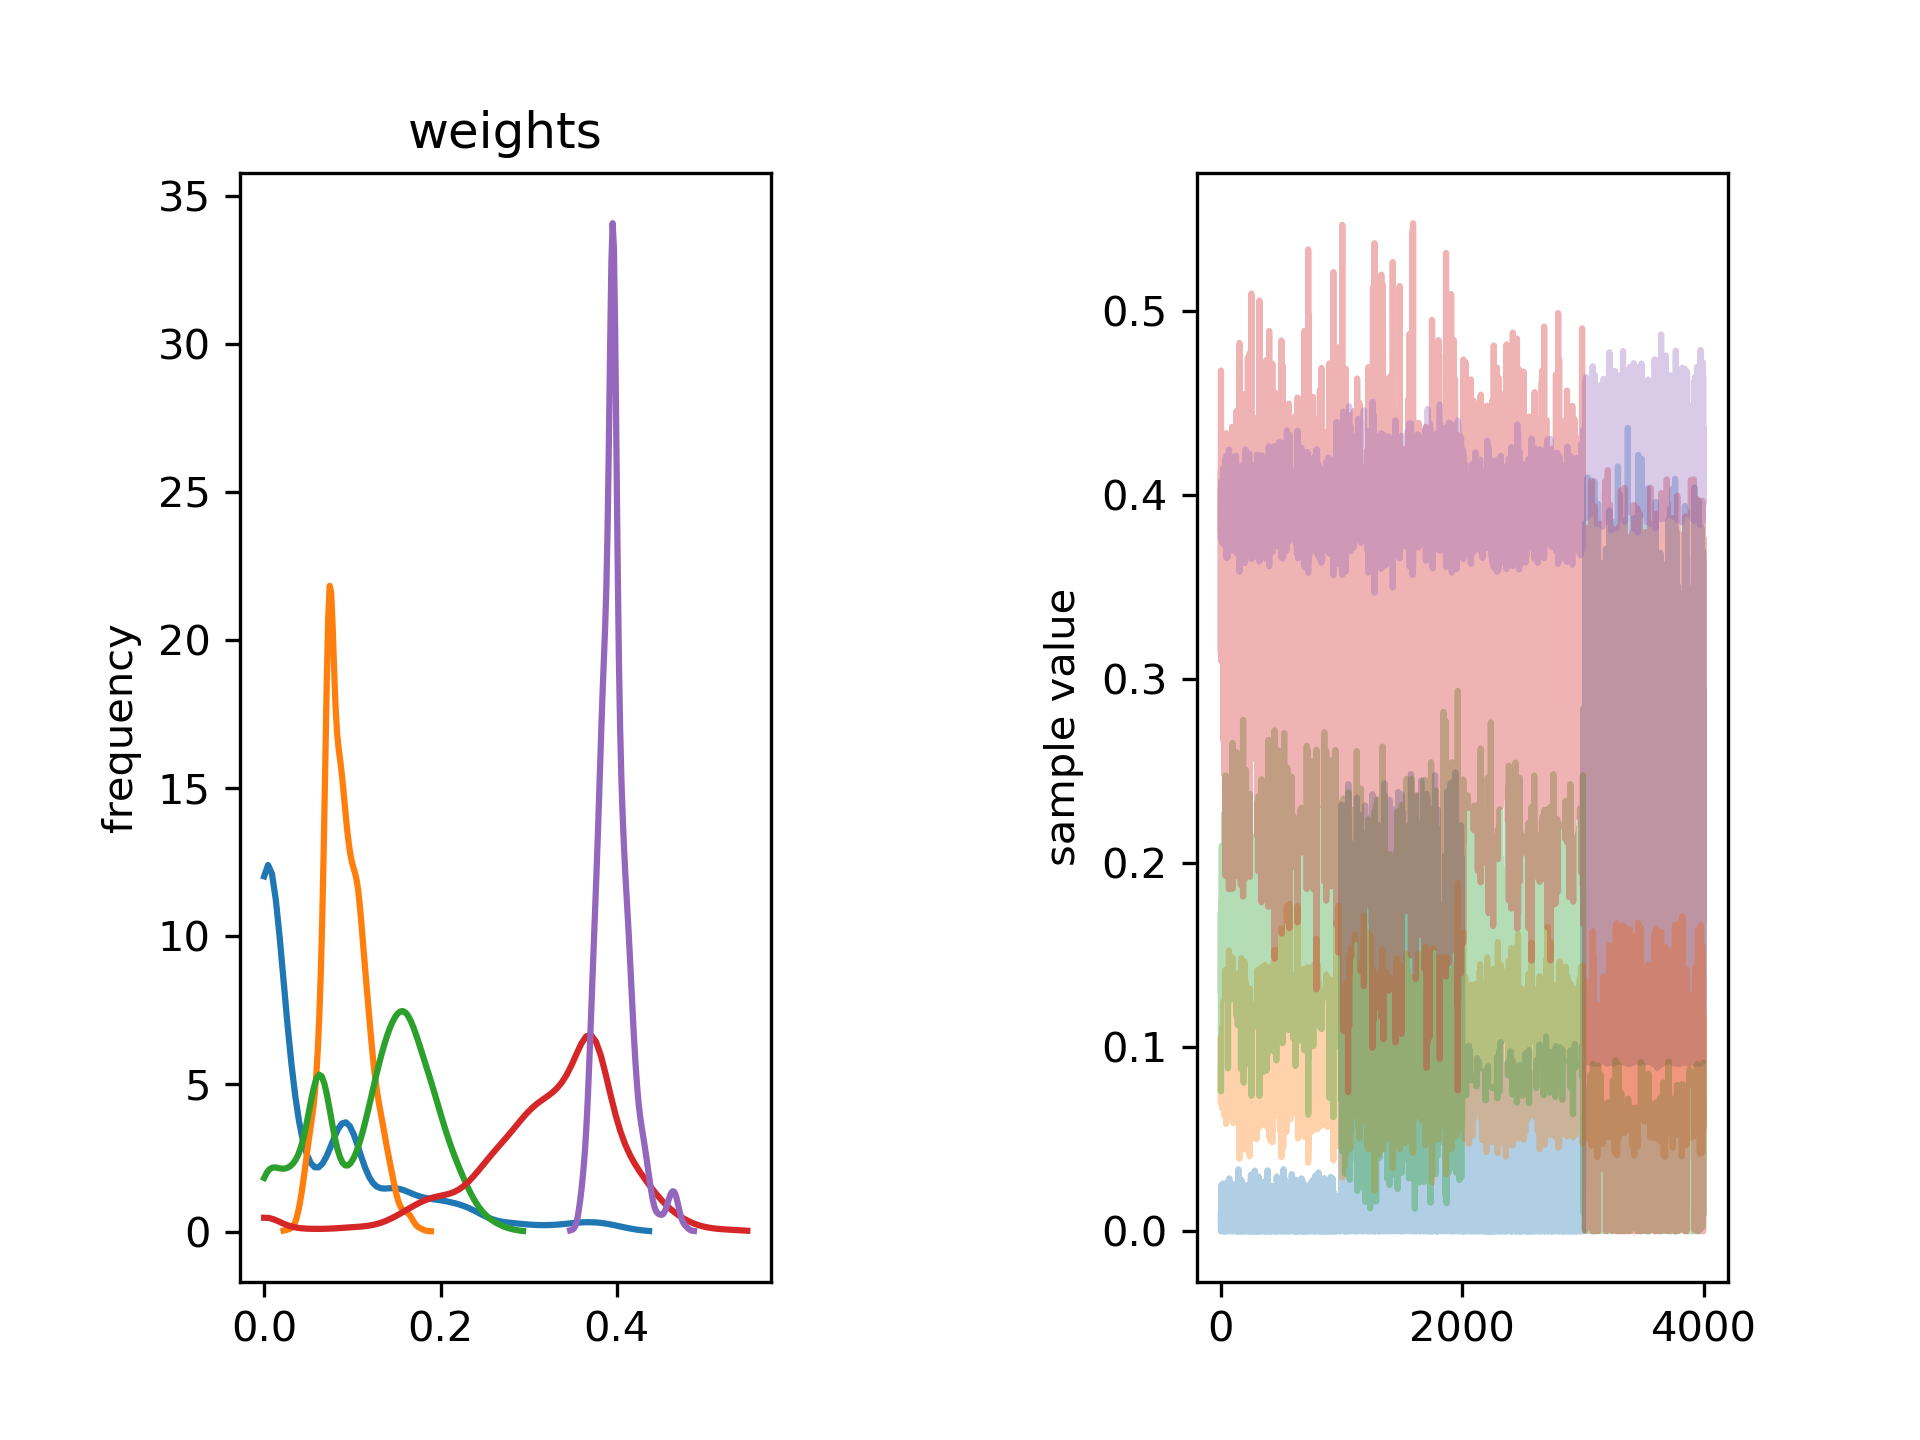
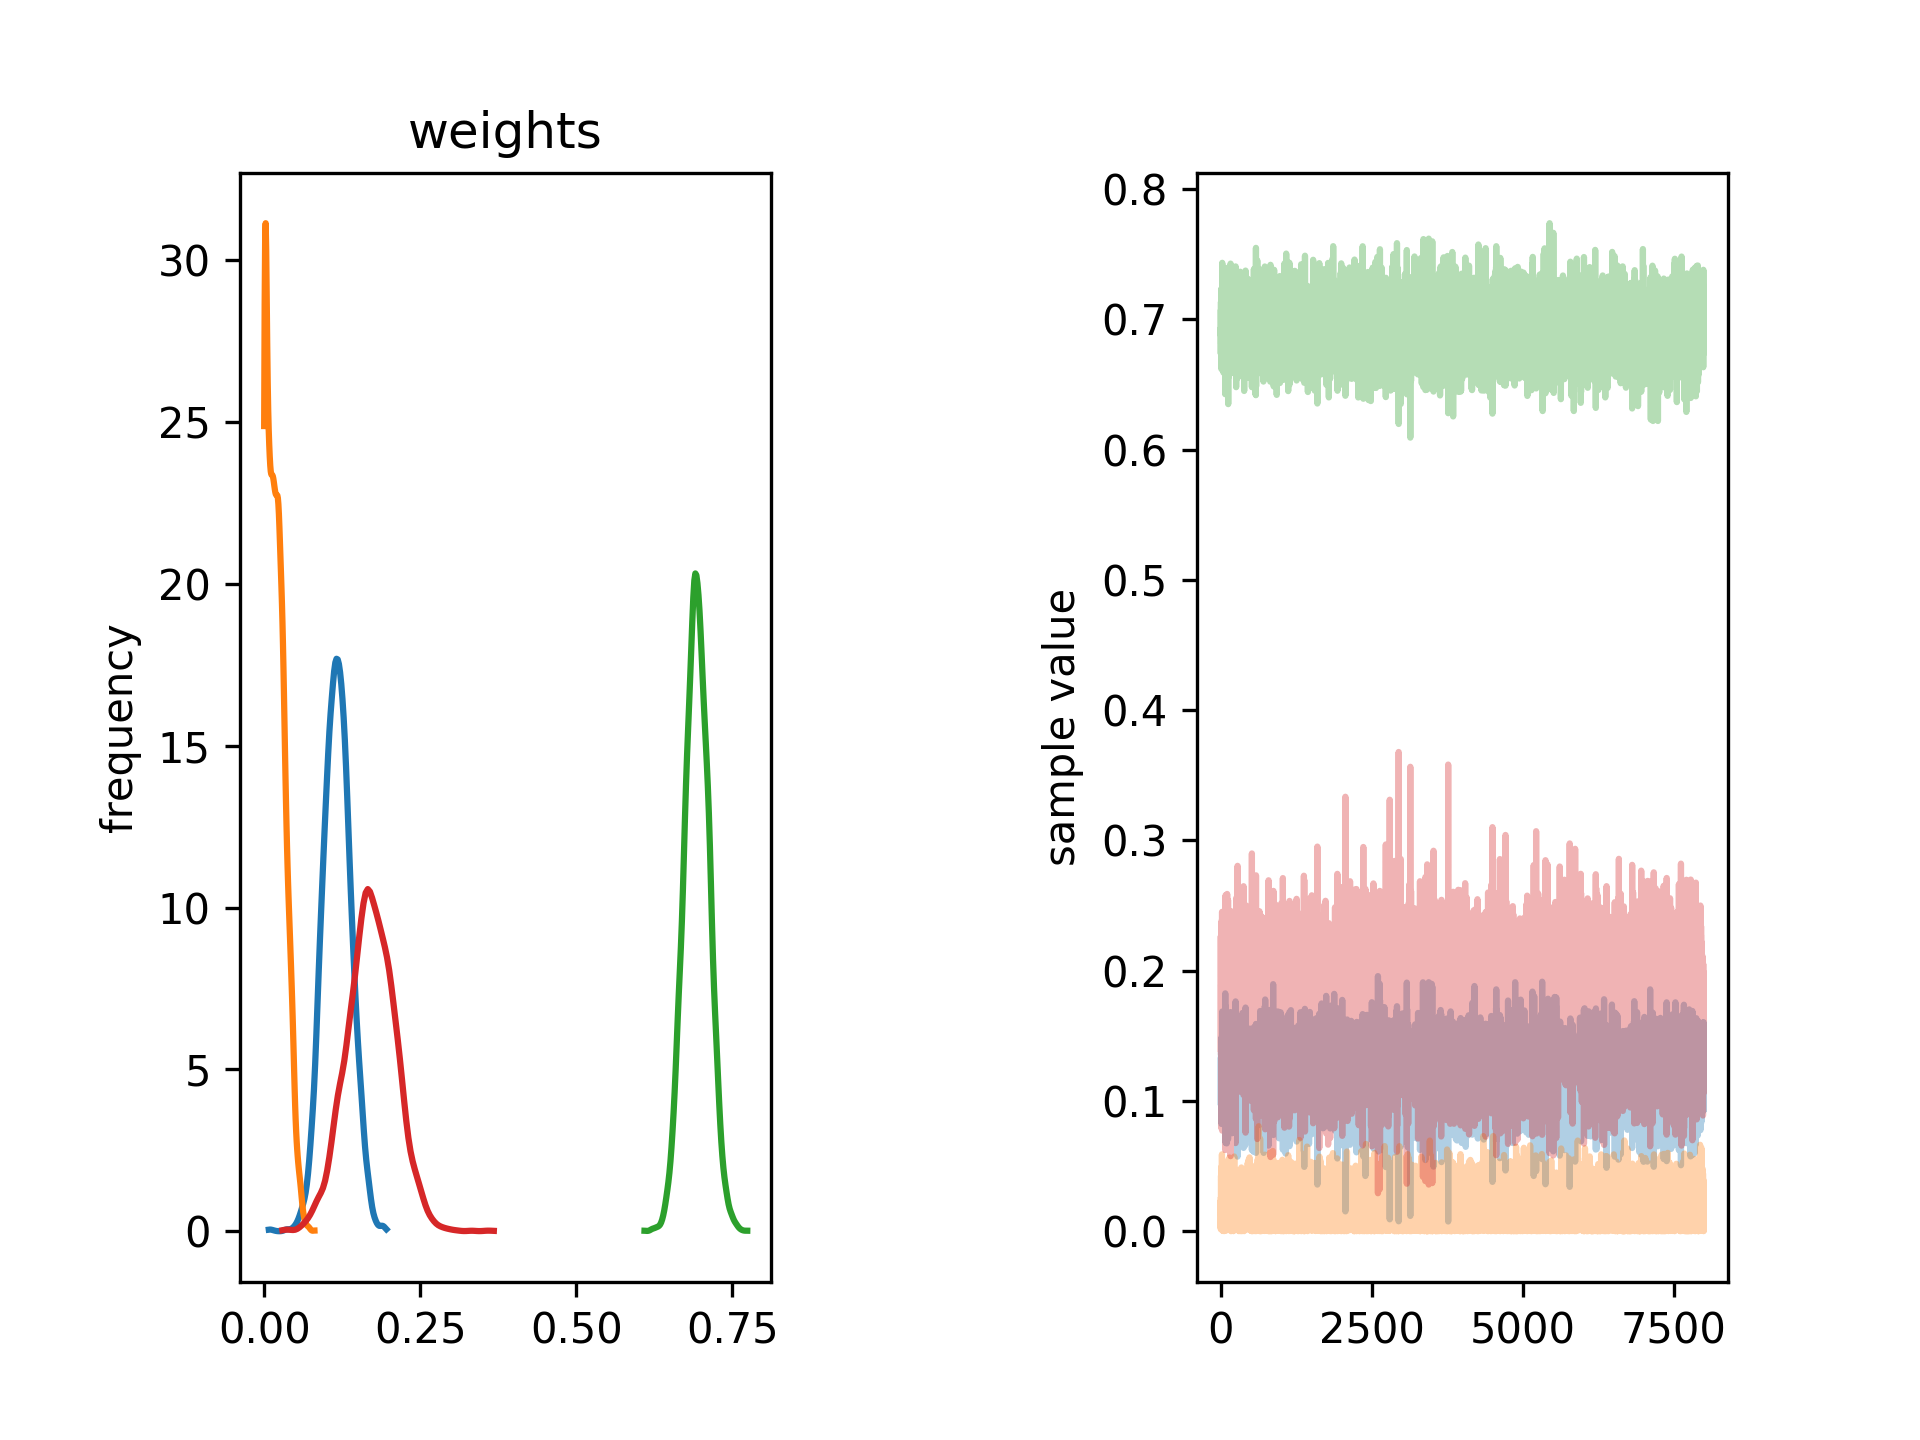
stan weights example provided

diff --git a/README.md b/README.md
@@ -35,40 +35,6 @@ If you see no errors but options menu pops up, you are good to go.
 
 ## Running examples
 
-### Simple run example
-1. The simple example for running complete Bayesian approach with all necessary input files can be found in data folder
-```
-cd data
-python ../fullBayesian.py -p weights.txt -s SimulatedIntensities.txt -e simulated.dat -f structures.txt
-```
-2. You should get simillar output to the one bellow:
-
->             mean se_mean     sd   2.5%    25%    50%    75%  97.5%  n_eff   Rhat
-> weights[0]   0.03  4.7e-3   0.05 1.9e-9 2.2e-4 7.0e-3   0.05   0.18    105   1.04
-> weights[1]   0.09  2.0e-3   0.02   0.05   0.08   0.09   0.11   0.14    128   1.03
-> weights[2]   0.15  3.8e-3   0.04   0.06   0.12   0.15   0.18   0.23    128   1.02
-> weights[3]   0.33  6.5e-3   0.07   0.17   0.29   0.33   0.38   0.46    118   1.03
-> weights[4]   0.39  1.4e-3   0.02   0.37   0.38   0.39    0.4   0.43    118   1.03
-> scale        1.02  5.2e-3   0.06   0.91   0.99   1.03   1.06   1.14    115   1.03
-> lp__       -14.25    0.15   1.79 -18.95 -15.12 -13.86 -12.94 -11.94    134   1.03
-
->Samples were drawn using NUTS at Fri Jun 29 10:02:35 2018.
->For each parameter, n_eff is a crude measure of effective sample size,
->and Rhat is the potential scale reduction factor on split chains (at
->convergence, Rhat=1).
->878 of 4000 iterations saturated the maximum tree depth of 10 (21.95%)
->  Run again with max_depth set to a larger value to avoid saturation
->E-BFMI indicated no pathological behavior
->522.0 of 4000 iterations ended with a divergence (13.05%)
->  Try running with larger adapt_delta to remove the divergences
-
-3. Script also produces two images stan_weights.png and stan_scale.png,
-which graphically ilustrated distribution of population weights (shown below) and scaling parameter
-![Alt text](images/stan_weights.png)
-
-3. Script also returns text file containing Q vector, experimental intensity,
-model intensity and experimental error.
-
 ### Generating input data
 
 The above example assumed that all input data are in the right format. This may however not be the case when you start from a set of PDB models
@@ -91,9 +57,32 @@ to run Bayesian inference in the next step.
 2. Run variational Bayesian inference
 Once you prepare input files as described in step 1, you can run model selection using variational Bayesian inference:
 ```
-python ../variationalBayesian.py -p flat_weights5models.txt -s TrmSimulatedIntensities5models.dat -e synthetic_60p.dat -f names5models.txt
+python ../variationalBayesian.py -p flat_weights5models.txt -s TrmSimulatedIntensities5models.dat -e synthetic_60p.dat -f names5models.txt -w 0.01
 ```
+where w is the weight therhold used for prunning models in after each iteration
+3. Run complete Bayesian inference
+Following model selection with Variational Bayesian one can infer population weights for the subset of models inferre with VBI.
+This can be done by simply running:
+```
+python ../fullBayesian.py -p weights.txt -s SimulatedIntensities.txt -e simulated.dat -f structures.txt
+```
+### Output
+1. You should get simillar output to the one bellow:
 
+>             mean se_mean     sd   2.5%    25%    50%    75%  97.5%  n_eff   Rhat
+>weights[0]   0.12  5.1e-4   0.02   0.07    0.1   0.12   0.13   0.16 1906.0    1.0
+>weights[1]   0.02  2.9e-4   0.01 7.4e-5 6.9e-3   0.02   0.03   0.05 2374.0    1.0
+>weights[2]   0.69  3.9e-4   0.02   0.65   0.68   0.69   0.71   0.73 2648.0    1.0
+>weights[3]   0.17  8.9e-4   0.04   0.09   0.15   0.17    0.2   0.25 1869.0    1.0
+>scale        1.14  2.4e-5 1.2e-3   1.14   1.14   1.14   1.14   1.14 2699.0    1.0
+>lp__       -171.0    0.05   1.69 -175.3 -171.9 -170.7 -169.8 -168.9 1404.0    1.0
+
+2. Script also produces two images stan_weights.png and stan_scale.png,
+which graphically ilustrated distribution of population weights (shown below) and scaling parameter
+![Alt text](images/stan_weights.png)
+
+3. Script also returns text file containing Q vector, experimental intensity,
+model intensity and experimental error.
 
 ### Using chemical shift data
 1. In order to use chemical shift data, one needs to install SHIFTX2. This can be done by following instructions at:
@@ -110,7 +99,21 @@ This will run batch job to process all pds and generate file in csv format. Plea
 
 2. Run a script that converts shiftx2 ouptut to input files for Bayesian inference
 ```
-prepareBayesian.py -s strcuture_lib_dir -e experimental_data
+prepareChemicalShifts.py -s strcuture_lib_dir -e experimental_data
 ```
 This will generate a few files: cs.dat, cs.err with simulated chemical shifts and
 errors from PDB structures and cs_exp.dat, which contains experimental data in the aproprinate format.
+
+### Using structural energies
+Up to now any method could be used to a pool structural models and we assumed that
+all models are equaly probable (by assaigining equal weights to all of them).
+However one can also use information about energy evaluated for each structural models.
+We use Rosetta to generate structural library and each of the models comes with energy value.
+In order to make use of them, one needs to simply save them in the text file and tell scripts
+to use them by suppling "-P" instead of "-p" flag, e.g.
+```
+python ../variationalBayesian.py -P energies.txt -s TrmSimulatedIntensities5models.dat -e synthetic_60p.dat -f names5models.txt -w 0.01
+```
+
+##Webserver
+[Webserver](WEBSERVER.md) coming up soon!

diff --git a/WEBSERVER.md b/WEBSERVER.md
@@ -1,0 +1,3 @@
+#Webserver
+![Alt text](images/ComingSoon.jpg)
+<a href="https://www.freepik.com/free-photos-vectors/blue">Blue vector created by Freepik</a>
